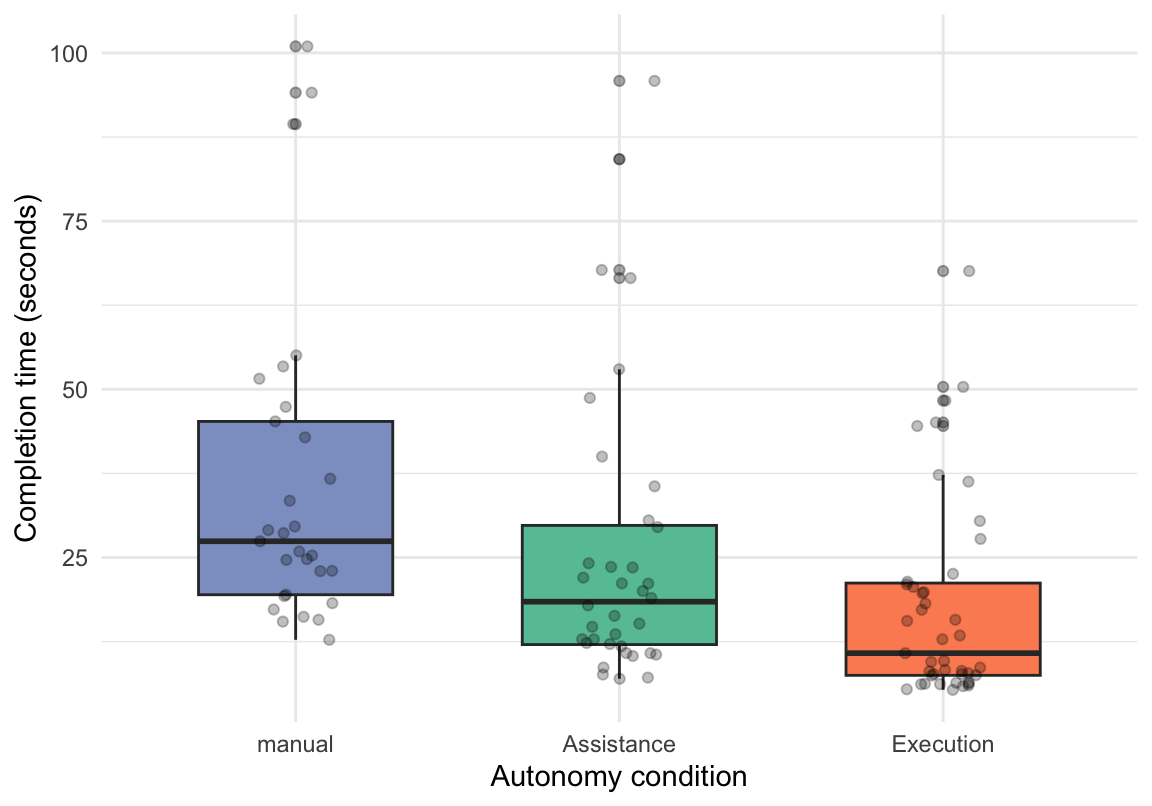
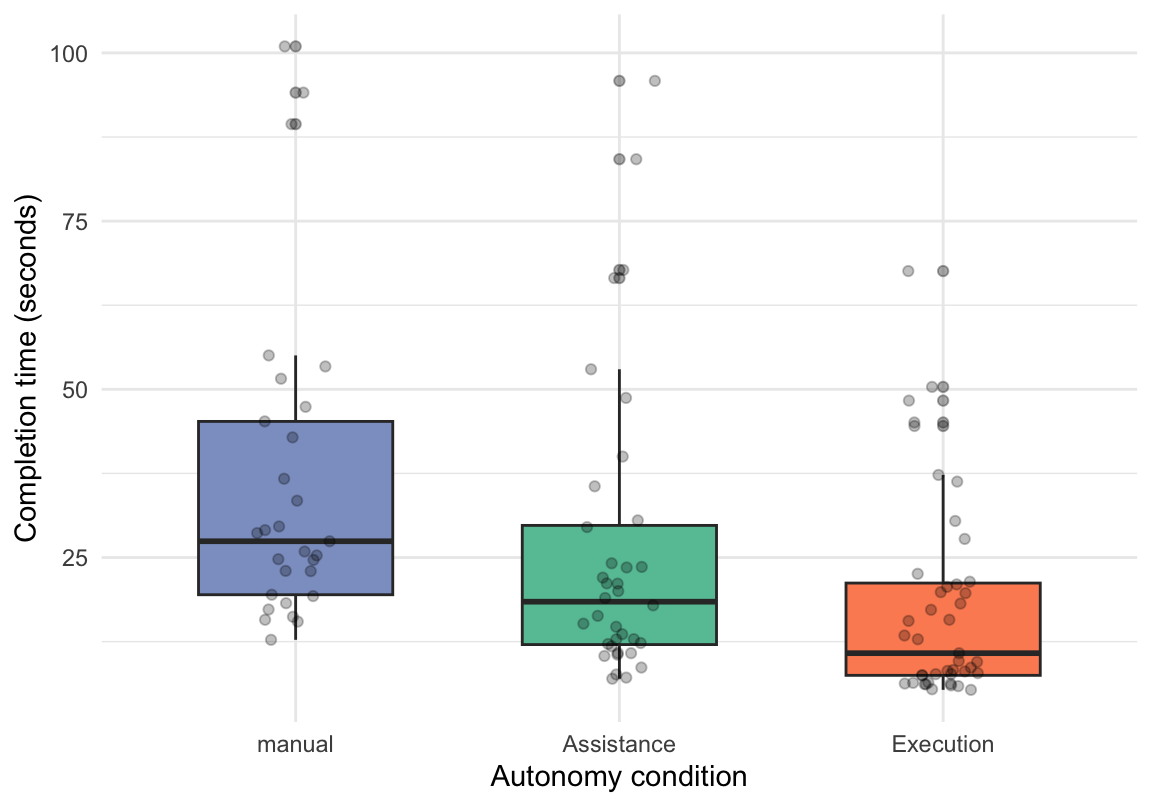
revise descussion

diff --git a/index.html b/index.html
@@ -87,8 +87,8 @@ ul.task-list li input[type="checkbox"] {
   <li><a href="#discussion" id="toc-discussion" class="nav-link" data-scroll-target="#discussion"><span class="header-section-number">5</span> Discussion</a>
   <ul class="collapse">
   <li><a href="#evaluation-of-hypotheses" id="toc-evaluation-of-hypotheses" class="nav-link" data-scroll-target="#evaluation-of-hypotheses"><span class="header-section-number">5.1</span> Evaluation of Hypotheses</a></li>
-  <li><a href="#summary-of-findings" id="toc-summary-of-findings" class="nav-link" data-scroll-target="#summary-of-findings"><span class="header-section-number">5.2</span> Summary of Findings</a></li>
-  <li><a href="#interpretation" id="toc-interpretation" class="nav-link" data-scroll-target="#interpretation"><span class="header-section-number">5.3</span> Interpretation</a></li>
+  <li><a href="#interpretation" id="toc-interpretation" class="nav-link" data-scroll-target="#interpretation"><span class="header-section-number">5.2</span> Interpretation</a></li>
+  <li><a href="#theoretical-contributions" id="toc-theoretical-contributions" class="nav-link" data-scroll-target="#theoretical-contributions"><span class="header-section-number">5.3</span> Theoretical Contributions</a></li>
   <li><a href="#limitations" id="toc-limitations" class="nav-link" data-scroll-target="#limitations"><span class="header-section-number">5.4</span> Limitations</a></li>
   <li><a href="#practical-implications" id="toc-practical-implications" class="nav-link" data-scroll-target="#practical-implications"><span class="header-section-number">5.5</span> Practical Implications</a></li>
   <li><a href="#conclusion" id="toc-conclusion" class="nav-link" data-scroll-target="#conclusion"><span class="header-section-number">5.6</span> Conclusion</a></li>
@@ -1138,47 +1138,41 @@ Figure&nbsp;12: Proportion of started sessions containing each intervention type
 <h1 data-number="5"><span class="header-section-number">5</span> Discussion</h1>
 <section id="evaluation-of-hypotheses" class="level2" data-number="5.1">
 <h2 data-number="5.1" class="anchored" data-anchor-id="evaluation-of-hypotheses"><span class="header-section-number">5.1</span> Evaluation of Hypotheses</h2>
-<p>The present study examined how different levels of AI execution autonomy influenced user task performance and intervention behavior in a controlled digital workflow. Overall, the findings provide differentiated support for the proposed hypotheses.</p>
-<p>H1 was largely supported. Higher levels of AI execution autonomy were associated with improved task performance across multiple indicators. For completion time, a clear and statistically significant stepwise pattern was observed, with the Manual condition showing the longest completion times, the Assistance condition showing shorter times, and the Execution condition showing the shortest times. This finding suggests that increasing execution autonomy can reduce the amount of manual effort required to complete a task. For detected errors, the Manual condition showed a significantly higher proportion of started sessions with at least one error compared with both the Assistance and Execution conditions, whereas the difference between Assistance and Execution was not statistically significant. A similar pattern emerged for task completion versus abandonment: overall differences across conditions were significant, but the clearest pairwise difference was found between the Manual and Execution conditions. Taken together, these results indicate that higher execution autonomy improved task performance, although this effect was not equally strong across all performance indicators.</p>
-<p>H2 was only partially supported. Intervention occurrence, operationalized as whether any intervention took place during a started session, did not differ significantly across autonomy conditions. In contrast, intervention count showed a significant effect: participants in the Manual condition intervened significantly more often than participants in both the Assistance and Execution conditions, whereas no significant difference was found between the Assistance and Execution conditions. The descriptive analysis of intervention types also showed that intervention was not uniform across conditions. Edits were frequent in all three conditions, while override and rejection-related actions were concentrated in the system-supported conditions. Thus, higher AI execution autonomy did not eliminate intervention altogether, but it did reduce how often users needed to intervene and altered the form that intervention took.</p>
+<p>The present study examined how AI execution autonomy shapes user task performance and intervention behavior across three operationally distinct conditions: Manual, Assistance, and Execution. The findings provide differentiated support for both hypotheses, with the most consistent effects emerging in comparisons between the Manual condition and the two system-supported conditions.</p>
+<p>H1 was largely supported. Higher AI execution autonomy was associated with improved performance across all three indicators, though the pattern was not uniform across measures. Completion time decreased in a statistically significant stepwise gradient — from Manual to Assistance to Execution — indicating that each incremental transfer of execution authority produced a measurable reduction in task duration. For detected errors and task abandonment, improvement followed a less finely graded pattern: both system-supported conditions showed significantly lower error proportions than the Manual condition but did not differ significantly from each other; for abandonment, the statistically significant overall effect was driven primarily by the contrast between the Manual and Execution conditions. H1 is therefore supported across all performance indicators, while the linearity of improvement holds most clearly for completion time.</p>
+<p>H2 received only partial support. Intervention occurrence — whether any intervention took place within a started session — did not differ significantly across conditions, remaining near ceiling in all three. Intervention count, by contrast, showed a significant effect: participants in the Manual condition intervened substantially more frequently than those in either system-supported condition, while Assistance and Execution did not differ from each other on this measure. Descriptive analysis of intervention types revealed a qualitative shift: field edits predominated across all conditions, whereas override and rejection actions were structurally confined to the system-supported conditions, as confirmed by Fisher’s exact tests (both <em>p</em> &lt; .001). H2 is therefore supported with respect to the frequency of intervention, but the null result for intervention occurrence establishes that higher autonomy does not reduce the probability of any user engagement — only its intensity and character.</p>
 </section>
-<section id="summary-of-findings" class="level2" data-number="5.2">
-<h2 data-number="5.2" class="anchored" data-anchor-id="summary-of-findings"><span class="header-section-number">5.2</span> Summary of Findings</h2>
-<p>Several overarching findings emerge from the results. First, increasing AI execution autonomy was associated with more efficient task completion. Completion time decreased progressively from the Manual condition to the Assistance condition and further to the Execution condition. Second, higher autonomy was associated with fewer detected errors, particularly when comparing the Manual condition with the two system-supported conditions. Third, abandonment decreased under higher autonomy, although this effect was most clearly evident in the comparison between the Manual and Execution conditions. Fourth, intervention behavior was more complex than initially expected. While intervention occurrence remained high across all conditions, intervention count decreased under higher autonomy. This suggests that users continued to engage with the system across all conditions, but the amount of intervention required was lower when the system took over a larger share of task execution.</p>
-<p>Taken together, these findings suggest that AI execution autonomy primarily improved task performance by reducing manual workload and limiting the number of corrective actions required during task execution. At the same time, user involvement was not removed entirely, indicating that even execution-oriented systems still operate within a human-supervised interaction structure.</p>
+<section id="interpretation" class="level2" data-number="5.2">
+<h2 data-number="5.2" class="anchored" data-anchor-id="interpretation"><span class="header-section-number">5.2</span> Interpretation</h2>
+<p>The performance advantages observed across the system-supported conditions are consistent with the theoretical expectation that delegating execution authority to a well-specified system reduces the manual burden of completing a constrained, rule-governed task (Parasuraman et al., 2000; Parasuraman &amp; Wickens, 2008). In the present study, both system-supported conditions relieved users of the need to construct a valid exam configuration through iterative parameter adjustment — a process that, in the Manual condition, required sequential decision-making under multiple simultaneous constraints. The system’s ability to generate compliant outputs directly appears to have reduced not only the time required for task completion but also the number of opportunities for constraint violations to accumulate during the configuration process.</p>
+<p>The pronounced monotonic effect on completion time — the only outcome to differentiate all three conditions in pairwise comparisons — suggests that execution autonomy was particularly effective at compressing the configuration cycle. From a resource allocation perspective, this is expected: in constraint-governed environments, a system capable of generating a valid solution in a single step short-circuits the iterative decision process that users in the Manual condition executed manually, yielding efficiency gains that scale with the number of sequential decisions bypassed (Parasuraman &amp; Wickens, 2008; Wickens et al., 2010).</p>
+<p>A finding of considerable theoretical significance is the limited differentiation between the Assistance and Execution conditions across most outcomes. Despite representing structurally distinct allocations of execution authority — one presenting a modifiable suggestion for user review before confirmation, the other implementing a configuration without requiring prior approval — the two conditions produced broadly comparable behavioral profiles on errors, abandonment, and intervention count. This asymmetry between the Manual-to-Assistance transition and the Assistance-to-Execution transition suggests diminishing marginal returns to execution autonomy: the most consequential design boundary lies at the onset of meaningful system involvement rather than at its upper limit. This pattern resonates with evidence from algorithm adjustability research, which shows that user behavior can shift substantially when even limited modifiability is introduced, while the incremental effect of increasing automation from adjustable to fully fixed tends to be comparatively modest (Dietvorst et al., 2018). It also aligns with flexible automation frameworks that identify the critical design question not as how autonomous to make the system, but as how to structure the onset and form of system involvement to preserve appropriate human oversight (Miller &amp; Parasuraman, 2007).</p>
+<p>The null result for intervention occurrence warrants explicit theoretical attention, as it represents an outcome not fully anticipated by a simple autonomy-reduces-intervention model. The near-ceiling proportions across all three conditions reflect the structural properties of the task: because a single field edit sufficed for classification as an intervening session and all conditions retained accessible interface elements, the binary measure was insufficiently sensitive to the autonomy manipulation. The significant effect for intervention count — but not occurrence — illustrates a methodological point of broader relevance: in the presence of near-ceiling binary measures, count-based and type-based decompositions are necessary to detect autonomy effects on user engagement. Treating intervention as a categorical event misrepresents what is, empirically, a distributional phenomenon shaped by task structure, interface affordances, and system behavior simultaneously.</p>
+<p>The most theoretically revealing aspect of the results is the qualitative shift in intervention type across autonomy conditions. The structural confinement of override and rejection actions to the system-supported conditions — types of intervention that presuppose the existence of a prior system-generated output — documents a transformation in the human role: from active configurator to evaluative supervisor. This transition directly instantiates the supervisory control dynamic described by Sheridan and Verplank (1978) and elaborated by Endsley (2017), in which increasing system autonomy shifts the human task from primary execution toward monitoring, evaluation, and selective correction. The persistence of field edits at rates exceeding 90% of started sessions across all conditions further indicates that some residual degree of user agency was structurally embedded in the workflow design and was not abolished even at the highest autonomy level tested. This aligns with Bainbridge’s (1983) observation that automation characteristically transforms rather than eliminates human activity: tasks previously performed through direct manipulation become tasks of oversight, validation, and exception handling. In the present study, this transformation is empirically visible not as an absence of user action under higher autonomy, but as a reconfiguration of action type — a shift that any analysis restricted to the binary occurrence of intervention would entirely fail to detect.</p>
 </section>
-<section id="interpretation" class="level2" data-number="5.3">
-<h2 data-number="5.3" class="anchored" data-anchor-id="interpretation"><span class="header-section-number">5.3</span> Interpretation</h2>
-<p>The observed pattern suggests that the level of execution autonomy influenced not only how quickly tasks were completed, but also how much corrective interaction was needed during task execution. This is consistent with human–automation research showing that delegating more task-relevant processing to the system can improve performance when the system operates within a well-defined and rule-based environment (Parasuraman et al., 2000; Parasuraman &amp; Wickens, 2008). In the present study, both the Assistance and Execution conditions reduced the burden of manual configuration compared with the Manual condition, which likely contributed to the shorter completion times and lower error occurrence in those conditions.</p>
-<p>The particularly strong effect on completion time suggests that execution autonomy was especially effective in reducing routine task effort. This pattern is plausible because the experimental task involved structured decisions under explicit constraints. In such settings, higher levels of autonomy can reduce the need for users to manually construct a valid solution step by step. Instead, the system can perform part or all of the configuration work, thereby accelerating task completion. This interpretation aligns with prior research showing that automation can improve efficiency when the delegated function is well specified and computationally manageable (Parasuraman et al., 2000; Parasuraman &amp; Wickens, 2008).</p>
-<p>At the same time, the findings show that the relationship between autonomy and intervention is more nuanced than a simple reduction model would suggest. Intervention occurrence remained similarly high across all conditions, whereas intervention count differed significantly. This indicates that a binary distinction between intervention and no intervention was too coarse to capture meaningful differences between conditions. One likely reason is that the operationalization of intervention occurrence was broad, because even a single edit counted as intervention. As a result, the majority of started sessions across all conditions were classified as involving intervention, which limited the discriminative power of this measure. By contrast, intervention count provided a more fine-grained view and showed that the Manual condition required substantially more intervention overall.</p>
-<p>The descriptive analysis of intervention types helps explain this pattern further. Edits occurred in more than 90% of started sessions across all conditions, suggesting that editing behavior was a general feature of the task rather than a condition-specific response. This may indicate that some level of active user involvement was structurally embedded in the workflow itself. In contrast, override and rejection-related actions were concentrated in the system-supported conditions. This pattern is theoretically meaningful because it suggests that as autonomy increases, user intervention shifts from constructing the solution manually toward monitoring and selectively correcting the system’s output. Such a shift is consistent with the view that greater autonomy does not remove the human from the loop, but changes the human role from primary executor to supervisor and corrector (Lee &amp; See, 2004; Endsley, 2017; Miller &amp; Parasuraman, 2007).</p>
-<p>Another important finding is that the Assistance and Execution conditions were not consistently distinguishable across all outcomes. Although Execution performed better descriptively on several indicators, the pairwise comparisons between Assistance and Execution were often not statistically significant, especially for detected errors and intervention count. This suggests that once the system assumes a meaningful supportive role, additional increases in execution autonomy may yield diminishing returns. In other words, moving from no system support to partial system support may produce the strongest behavioral improvement, whereas moving from partial support to full execution may not always create an equally large additional benefit. This interpretation is important because it suggests that the optimal level of autonomy may not always be full execution. Under some circumstances, assistance-oriented autonomy may already deliver most of the practical benefits while preserving a greater degree of user control. This view is also compatible with work showing that people may prefer modifiable or partially adjustable algorithmic support over fully fixed automated output (Dietvorst et al., 2018; Miller &amp; Parasuraman, 2007).</p>
-<p>The present findings also suggest that higher execution autonomy should not automatically be interpreted as the elimination of human involvement. Classical work on the ironies of automation has shown that increasing system autonomy can shift the human role toward supervision and create new demands for intervention when the automated process requires recovery or correction (Bainbridge, 1983). Similarly, research on supervisory control and mode awareness shows that when automated systems become more capable, the human task does not disappear but changes in character, often becoming more dependent on monitoring, interpretation, and timely intervention (Sarter &amp; Woods, 1995; Endsley, 2017). In this study, that broader pattern is visible in the continued presence of intervention even under higher autonomy conditions.</p>
-<p>Overall, the findings indicate that AI execution autonomy influenced behavior in two main ways: it improved task performance and reduced the frequency of intervention, but it did not fully remove the need for user involvement. This suggests that execution-oriented AI should not be understood as replacing the user completely. Rather, it restructures the interaction so that users engage less in direct configuration and more in supervision, acceptance, modification, and correction.</p>
+<section id="theoretical-contributions" class="level2" data-number="5.3">
+<h2 data-number="5.3" class="anchored" data-anchor-id="theoretical-contributions"><span class="header-section-number">5.3</span> Theoretical Contributions</h2>
+<p>The findings extend human–automation interaction theory in two substantive directions. First, they provide behavioral evidence for the consequences of execution-oriented AI that complements the predominance of advisory and decision-support automation in existing empirical work. Prior research has established extensively that automation affects trust, situation awareness, reliance, and workload, but these outcomes have been assessed predominantly through self-report instruments and under conditions in which humans retain final execution authority (Lee &amp; See, 2004; Parasuraman &amp; Riley, 1997; Hoff &amp; Bashir, 2015). The present study demonstrates that when AI systems assume the authority to implement workflow actions directly, the effects are observable in objective behavioral metrics — task duration, error rates, and the frequency and type of user intervention — independently of subjective mediation. This supports the position that execution-oriented AI constitutes a qualitatively distinct object of inquiry that requires behavioral, not solely attitudinal, methods of investigation.</p>
+<p>Second, the pattern of diminishing marginal returns to autonomy extends the theoretical understanding of how autonomy levels relate to behavioral outcomes beyond the prevailing assumption of monotonicity. The finding that the functional boundary between unsupported and system-supported execution is more behaviorally consequential than the boundary between assisted and fully autonomous execution qualifies the implicit premise that more automation yields proportionally more of its predicted effects. For the task environment examined here, the relevant design question appears to be whether to cross the threshold from unsupported to system-supported execution, not how far beyond that threshold to proceed. This reframing has implications for how the autonomy design space is conceptualized and for how empirical comparisons between automation levels are structured in future research.</p>
 </section>
 <section id="limitations" class="level2" data-number="5.4">
 <h2 data-number="5.4" class="anchored" data-anchor-id="limitations"><span class="header-section-number">5.4</span> Limitations</h2>
-<p>Several limitations should be considered when interpreting the findings. First, the study was conducted with a finite sample in a single controlled experimental setting. Although the sample was sufficient to detect several meaningful differences between conditions, the findings should not be generalized too broadly without caution. Future studies with larger and more diverse samples would strengthen the external validity of the results.</p>
-<p>Second, the study was based on a prototype workflow rather than a fully deployed real-world AI system. Although the prototype allowed precise control over autonomy conditions and enabled detailed log-based measurement, it necessarily simplified some aspects of real human–AI interaction. In particular, the system simulated AI-supported execution within a constrained task environment. As a result, the findings should be interpreted as evidence about execution autonomy under controlled workflow conditions rather than as a direct evaluation of fully autonomous AI systems in unconstrained real-world settings.</p>
-<p>Third, the task itself was relatively structured and rule based. This was methodologically useful because it allowed the effects of autonomy to be isolated more clearly, but it also limits generalizability. In more ambiguous, creative, or socially complex tasks, the effects of autonomy may differ substantially. The present results are therefore most directly applicable to constrained digital workflows in which valid outputs can be defined through explicit rules.</p>
-<p>Fourth, intervention occurrence was operationalized rather broadly. Because a session was classified as involving intervention whenever at least one edit, override, or rejection-related action occurred, the measure captured a wide range of user actions and may have obscured finer differences between conditions. The fact that intervention occurrence remained similarly high across all conditions suggests that this binary measure had limited sensitivity. The count-based and type-based analyses were therefore more informative, but future research could refine intervention measures further by distinguishing between low-impact and high-impact forms of intervention.</p>
-<p>Fifth, the study relied exclusively on behavioral log data. This was a deliberate strength of the design because it enabled objective measurement of task performance and user actions. However, it also means that the study cannot directly explain how participants subjectively experienced the different autonomy conditions. Constructs such as trust, perceived control, workload, and satisfaction were not measured directly. Future work could combine log-based behavioral data with self-report measures in order to better connect observable behavior with user perception (Lee &amp; See, 2004; Hoff &amp; Bashir, 2015; Dzindolet et al., 2003).</p>
+<p>Several limitations qualify the interpretation and generalizability of these findings. The study was conducted within a single controlled experimental setting with a sample drawn from a specific population. Although statistical power was sufficient to detect meaningful between-condition differences, the generalizability of the findings is constrained by the characteristics of the prototype, the participant sample, and the single-session cross-sectional design. Replication with larger and more diverse participant populations, and across repeated exposure to the same autonomy conditions, would clarify the robustness and boundary conditions of the observed effects and allow investigation of adaptation processes that cross-sectional comparisons cannot capture.</p>
+<p>The experimental task was a structured, rule-governed workflow with explicitly defined validity constraints. This afforded methodological precision — the effects of autonomy could be isolated under controlled conditions and assessed against objective criteria — but it limits transferability to tasks that are ambiguous, preference-sensitive, or involve consequential and irreversible decisions. In such contexts, the cognitive demands of evaluating system-generated outputs may be substantially higher, the costs of mis-reliance more severe, and the behavioral response to execution autonomy qualitatively different. The present findings are therefore most directly applicable to constrained administrative or configuration-oriented digital workflows.</p>
+<p>The exclusive reliance on behavioral log data constitutes both a methodological strength and a limitation. System-generated logs yield objective, reproducible measures of task performance and user action, free from social desirability and retrospective distortion. However, they do not afford access to the cognitive and affective processes through which users experienced the different autonomy conditions. Constructs central to human–automation interaction theory — trust, perceived control, cognitive workload, and situational awareness — were not assessed, making it impossible to attribute the observed behavioral patterns to specific psychological mechanisms. Future work that integrates log-based measures with validated self-report instruments, and potentially with physiological or oculomotor indicators of cognitive engagement, would substantially advance understanding of the mechanisms underlying these effects (Lee &amp; See, 2004; Hoff &amp; Bashir, 2015; Dzindolet et al., 2003).</p>
+<p>Finally, the binary operationalization of intervention occurrence proved insensitive in this study due to its near-ceiling distribution. Future research should adopt more granular intervention metrics from the outset, distinguishing interventions by type, magnitude, timing relative to task progression, and relationship to system-generated state changes. Such decomposition would enable a more precise characterization of how users exercise residual control under high-autonomy conditions and would allow researchers to distinguish adaptive from corrective forms of intervention.</p>
 </section>
 <section id="practical-implications" class="level2" data-number="5.5">
 <h2 data-number="5.5" class="anchored" data-anchor-id="practical-implications"><span class="header-section-number">5.5</span> Practical Implications</h2>
-<p>The practical implications of the study are especially relevant for the design of AI-supported digital workflows. The findings suggest that higher execution autonomy can be beneficial when tasks are structured, rule based, and governed by explicit constraints. In such situations, allowing the system to take over more of the execution process can improve efficiency, reduce user errors, and lower the amount of corrective interaction required. This is particularly valuable in repetitive administrative or configuration-oriented workflows where the system can reliably generate valid outcomes.</p>
-<p>However, the results also show that user involvement remains important even under higher autonomy. Intervention did not disappear; rather, its frequency decreased and its form changed. This implies that designers should not assume that execution autonomy makes user control unnecessary. Instead, systems should be designed to support appropriate supervisory control. Even when the system executes actions directly, users should still be able to inspect outputs, understand what has been generated, and intervene when necessary (Lee &amp; See, 2004; Endsley, 2017).</p>
-<p>This leads to a more differentiated design implication: higher autonomy appears especially useful when task rules are stable, the cost of system error is manageable, and output validity can be checked systematically. In contrast, stronger user control is likely to remain important when tasks are ambiguous, preference sensitive, high stakes, or difficult to evaluate automatically. Under such conditions, full execution autonomy may reduce effort, but it may also increase the need for transparency, reviewability, and correction mechanisms (Parasuraman et al., 2000; Endsley, 2017).</p>
-<p>The comparison between Assistance and Execution also suggests that full execution autonomy is not always required to achieve meaningful performance gains. In the present study, the move from Manual to system-supported conditions produced the strongest improvements, whereas the differences between Assistance and Execution were often smaller and not always statistically significant. From a design perspective, this means that assistance-oriented systems may already offer substantial value while preserving a greater degree of user agency. In many practical settings, the most effective design may therefore be neither full manual control nor unconditional full execution, but a calibrated level of autonomy that matches the structure, risk, and reversibility of the task. This conclusion is consistent with research showing that users often accept automation more readily when they retain some opportunity to shape or adjust the system’s output rather than merely accept a fixed automated result (Dietvorst et al., 2018; Miller &amp; Parasuraman, 2007).</p>
-<p>Taken together, these findings support a design perspective in which autonomy should be calibrated rather than maximized. The central design goal should not be to eliminate user involvement, but to reduce unnecessary manual burden while preserving meaningful control where it is still needed.</p>
+<p>The findings carry implications for the design of AI-supported digital workflows that go beyond simple prescriptions to increase or decrease system autonomy. The consistent performance advantages observed in the system-supported conditions — in particular, the reduction in completion time across the full autonomy gradient and the lower error exposure relative to manual execution — provide evidence that execution autonomy is beneficial in structured, constraint-governed task environments where the system can reliably generate valid outputs. In such settings, shifting execution responsibility to the AI reduces manual burden, decreases error exposure, and lowers the likelihood of task abandonment, outcomes that are practically significant in high-volume, repetitive administrative or configuration-oriented workflows.</p>
+<p>However, the near-equivalence of the Assistance and Execution conditions on most outcomes challenges the assumption that full execution autonomy should be the default design target. Assistance-oriented systems — which relieve users of the primary configuration burden while preserving modifiability — may offer a more favorable balance between performance efficiency and user agency across a wide range of deployment contexts. This is consistent with evidence that modifiability increases user willingness to engage with and act on algorithmic outputs (Dietvorst et al., 2018), and with arguments that effective human–AI collaboration does not require maximal delegation but rather appropriate delegation calibrated to task structure, risk, and user context (Miller &amp; Parasuraman, 2007). For systems operating in domains where AI reliability is uncertain, where outcomes are heterogeneous or preference-dependent, or where errors are costly and difficult to reverse, an assistance-level design may capture most of the practical benefit of AI support while maintaining the degree of user control necessary for appropriate oversight.</p>
+<p>The shift in intervention type from constructive editing to evaluative override and rejection under higher autonomy conditions also carries specific implications for interface design. Users operating within execution-oriented systems require not proficiency in building valid configurations, but the ability to inspect, comprehend, and challenge system-generated outputs efficiently. This places demands on system transparency — specifically, on whether the rationale for system outputs is communicated in a form that users can evaluate — and on the ergonomic design of review and correction pathways. Systems that generate outputs without accessible explanation, or that do not provide targeted correction mechanisms, may undermine the supervisory role that users continue to perform even under high-autonomy conditions (Endsley, 2017). Transparency and corrective access should therefore be treated not as optional interface features but as functional prerequisites for the supervisory control that the present findings confirm users retain across all autonomy levels.</p>
 </section>
 <section id="conclusion" class="level2" data-number="5.6">
 <h2 data-number="5.6" class="anchored" data-anchor-id="conclusion"><span class="header-section-number">5.6</span> Conclusion</h2>
-<p>This study investigated how different levels of AI execution autonomy influence user task performance and intervention behavior in a controlled digital workflow. Across the three autonomy conditions, the results showed that increasing execution autonomy was generally associated with improved task performance. In particular, higher autonomy reduced task completion time, lowered detected error occurrence, and was associated with lower abandonment compared with the Manual condition. At the same time, increased autonomy did not remove the user from the interaction process. Instead, it changed the nature of user involvement: intervention remained present across conditions, but its frequency decreased and its form shifted from direct manual configuration toward supervision, selective correction, and system-oriented adjustment.</p>
-<p>These findings contribute to the literature on human–automation interaction in two important ways. First, they extend the discussion from assistive automation toward execution-oriented AI systems, in which the system not only supports decision making but also takes over larger parts of task execution. Second, they provide behavior-based evidence derived from system-generated log data, thereby complementing prior research that has often focused more strongly on subjective constructs such as trust, reliance, and perceived usefulness. In this sense, the study shows that AI execution autonomy should not be understood simply as a substitution of machine action for human action, but rather as a redistribution of execution authority that reshapes both task outcomes and user intervention patterns.</p>
-<p>The results further suggest that the benefits of autonomy are especially evident in structured, rule-based workflows in which valid outputs can be generated and evaluated under clear constraints. However, the findings also indicate that higher autonomy does not make human control irrelevant. Even under more execution-oriented conditions, meaningful opportunities for user oversight, review, and correction remain essential. The central design implication is therefore not that more autonomy is always better, but that autonomy should be calibrated carefully to the demands, risks, and reversibility of the task environment.</p>
-<p>Overall, this study provides empirical evidence that AI execution autonomy can improve efficiency and reduce manual burden while preserving a continuing role for human supervision. By linking levels of execution autonomy to observable behavioral outcomes, it offers a more differentiated understanding of how control is redistributed in human–AI interaction and provides a foundation for future research on the design of effective and responsible execution-oriented AI systems.</p>
+<p>This study set out to examine how different levels of AI execution autonomy influence user task performance and intervention behavior in a controlled digital workflow. The results demonstrate that shifting execution authority to an AI system produces measurable improvements in task efficiency and reduces the frequency of user intervention — effects that are most pronounced and consistent in comparisons between unsupported manual execution and system-supported conditions. At the same time, higher autonomy does not remove the user from the interaction process. Instead, it restructures their role: intervention persists across all autonomy levels, but its frequency decreases and its character shifts from active configuration toward evaluative supervision.</p>
+<p>These findings extend human–automation interaction research by providing behavioral evidence for execution-oriented AI systems and by qualifying the assumption that autonomy effects are monotonically proportional to the degree of delegation. The near-equivalence of Assistance and Execution conditions across most outcomes suggests that the threshold between unsupported and system-supported execution constitutes the primary behavioral boundary in this experimental context, and that calibrated, modifiable autonomy may often be preferable to unconditional full execution, both from a performance standpoint and from the perspective of maintaining meaningful human control.</p>
+<p>Future research should address the mechanisms underlying these behavioral patterns by integrating log-based data with subjective and physiological measures, and should examine how the identified effects generalize across task types, user populations, and deployment contexts in which the stakes, ambiguity, and reversibility of AI-executed decisions differ from those studied here. As AI systems assume greater operational authority across consequential domains, empirically grounded understanding of how users respond to and manage execution autonomy will remain essential to the design of systems that are efficient, transparent, and appropriately controllable.</p>
 </section>
 </section>
 <section id="references" class="level1 unnumbered">
